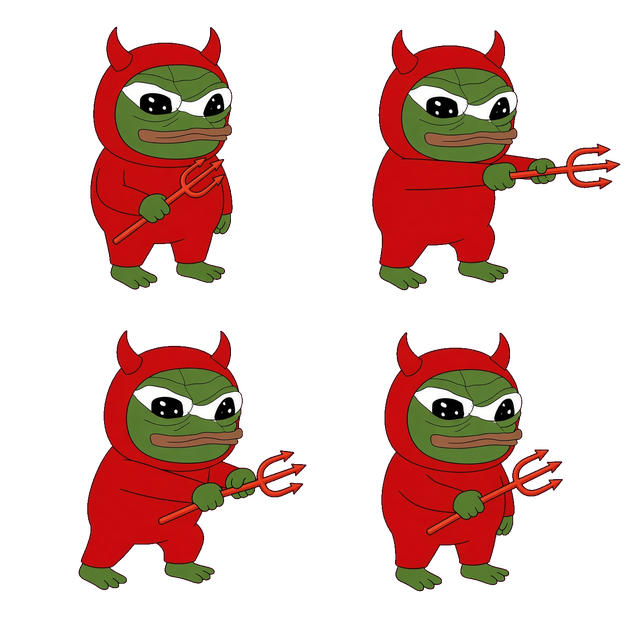
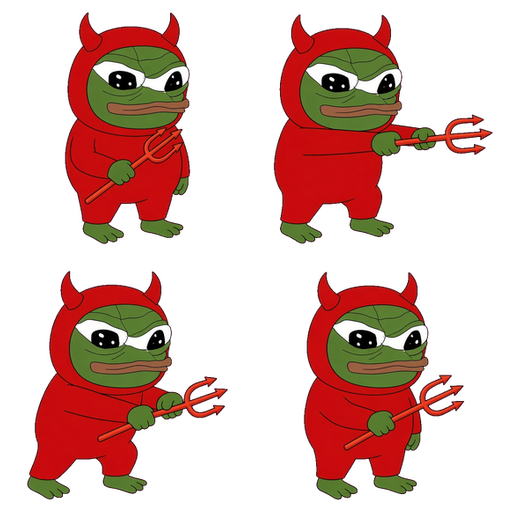
Fix north idle, right-walk clip, standing twitch
Center walk frames so they don't clip. Hold a still pose when stopped. Use the back-view row when facing up.

Changed region(s): [[0.0312, 0.0312, 0.5, 1.0], [0.5312, 0.0312, 0.9688, 0.5], [0.5938, 0.5, 0.9062, 1.0]]

diff --git a/dungeon.html b/dungeon.html
@@ -116,10 +116,10 @@
     return img;
   }
   const sheets = {
-    idle: loadImg("game/player-idle.png?v=6"),
-    walk: loadImg("game/player-walk.png?v=6"),
-    attack: loadImg("game/player-attack.png?v=6"),
-    shoot: loadImg("game/player-shoot.png?v=6"),
+    idle: loadImg("game/player-idle.png?v=7"),
+    walk: loadImg("game/player-walk.png?v=7"),
+    attack: loadImg("game/player-attack.png?v=7"),
+    shoot: loadImg("game/player-shoot.png?v=7"),
     jeetB: loadImg("game/jeet-blue.png?v=4"),
     jeetS: loadImg("game/jeet-suit.png?v=4"),
     fire: loadImg("game/fireball.png?v=4"),
@@ -492,17 +492,18 @@
   }
   function sheetFrame(img, cols, rows, i, dx, dy, dw, dh, flip) {
     if (!ready(img)) return false;
-    const cw = img.naturalWidth / cols;
-    const ch = img.naturalHeight / rows;
+    const cw = Math.floor(img.naturalWidth / cols);
+    const ch = Math.floor(img.naturalHeight / rows);
     const col = i % cols;
     const row = Math.floor(i / cols);
+    const pad = 1;
     ctx.save();
     if (flip) {
       ctx.translate(dx + dw, dy);
       ctx.scale(-1, 1);
-      ctx.drawImage(img, col * cw, row * ch, cw, ch, 0, 0, dw, dh);
+      ctx.drawImage(img, col * cw + pad, row * ch + pad, cw - pad * 2, ch - pad * 2, 0, 0, dw, dh);
     } else {
-      ctx.drawImage(img, col * cw, row * ch, cw, ch, dx, dy, dw, dh);
+      ctx.drawImage(img, col * cw + pad, row * ch + pad, cw - pad * 2, ch - pad * 2, dx, dy, dw, dh);
     }
     ctx.restore();
     return true;
@@ -581,24 +582,32 @@
     });
 
     const moving = Math.hypot(player.vx, player.vy) > 0.4;
-    const flip = player.facing === "left";
-    let img = sheets.idle, cols = 2, rows = 2, fi = Math.floor(frame / 16) % 4, bob = 0;
+    const dirRow = player.facing === "down" ? 0 : player.facing === "left" ? 1 : player.facing === "right" ? 2 : 3;
+    let img = sheets.idle, cols = 2, rows = 2, fi = 0, bob = 0, flip = false;
     if (pokeT > 0) {
       img = sheets.attack;
       fi = pokeT > 14 ? 0 : pokeT > 10 ? 1 : pokeT > 5 ? 2 : 3;
+      flip = player.facing === "left";
     } else if (shootT > 0) {
       img = sheets.shoot;
       fi = shootT > 20 ? 0 : shootT > 14 ? 1 : shootT > 8 ? 2 : 3;
+      flip = player.facing === "left";
     } else if (moving) {
       img = sheets.walk;
       cols = 4; rows = 4;
-      const row = player.facing === "down" ? 0 : player.facing === "left" ? 1 : player.facing === "right" ? 2 : 3;
       const step = Math.floor(walkAcc / 16) % 4;
-      fi = row * 4 + step;
+      fi = dirRow * 4 + step;
       bob = step % 2 === 1 ? -3 : 0;
+    } else if (player.facing === "down") {
+      img = sheets.idle;
+      fi = frame % 210 < 12 ? 1 : 0;
+    } else {
+      img = sheets.walk;
+      cols = 4; rows = 4;
+      fi = dirRow * 4;
     }
     if (invuln % 6 < 3 || invuln === 0) {
-      sheetFrame(img, cols, rows, fi, Math.round(player.x) - 14, Math.round(player.y) - 22 + bob, 64, 70, flip && img !== sheets.walk);
+      sheetFrame(img, cols, rows, fi, Math.round(player.x) - 14, Math.round(player.y) - 22 + bob, 64, 70, flip);
     }
 
     sparks.forEach((s) => {
